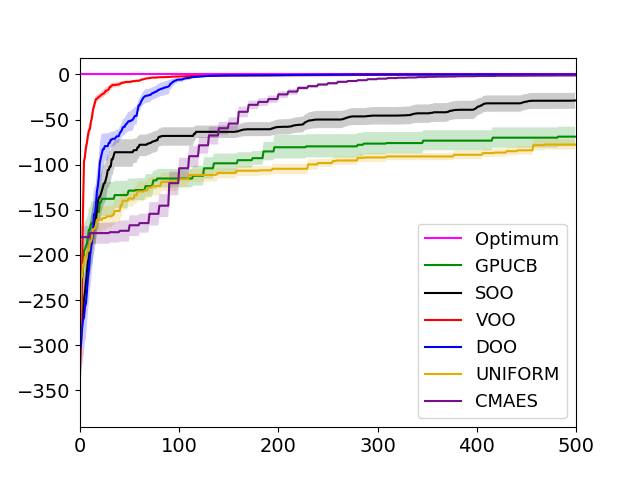
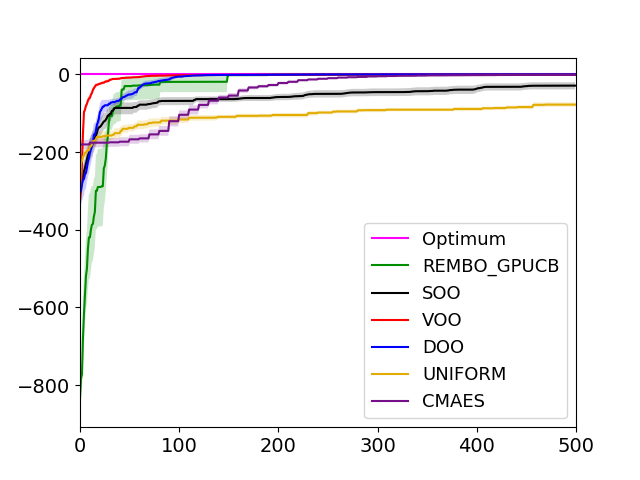
rembo epsilons

diff --git a/plotters/plot_optimization_algorithms.py b/plotters/plot_optimization_algorithms.py
@@ -99,6 +99,7 @@ def get_results(algo_name, dimension, obj_fcn):
         except:
             import pdb;
             pdb.set_trace()
+        import pdb;pdb.set_trace()
         max_y = max_ys[optimal_epsilon_idx, :]
         if 'cmaes' in result_dir:
             max_y = augment_cmaes_data(max_y)
@@ -120,7 +121,7 @@ def plot_across_algorithms():
     args = parser.parse_args()
     n_dim = args.dim
 
-    algo_names = ['gpucb', 'soo', 'voo', 'doo', 'uniform', 'cmaes']
+    algo_names = ['rembo_gpucb', 'soo', 'voo', 'doo', 'uniform', 'cmaes']
     #algo_names = ['cmaes']
     color_dict = pickle.load(open('./plotters/color_dict.p', 'r'))
     color_names = color_dict.keys()

diff --git a/test_scripts/test_optimization_algorithms.py b/test_scripts/test_optimization_algorithms.py
@@ -371,7 +371,8 @@ def get_exploration_parameters(algorithm):
     elif algorithm.__name__ == 'gpucb':
         epsilons = [0.01, 1, 0.1, 5, 10, 30]
     elif algorithm.__name__ == 'rembo_gpucb':
-        epsilons = [0.01, 1, 0.1, 5, 10, 30]
+        #epsilons = [0.01, 1, 0.1, 5, 10, 30]
+        epsilons = [1, 0.1, 5]
     elif algorithm.__name__.find('soo') != -1:
         epsilons = [0]
     elif algorithm.__name__.find('random_search') != -1 or algorithm.__name__.find('stounif') != -1:
